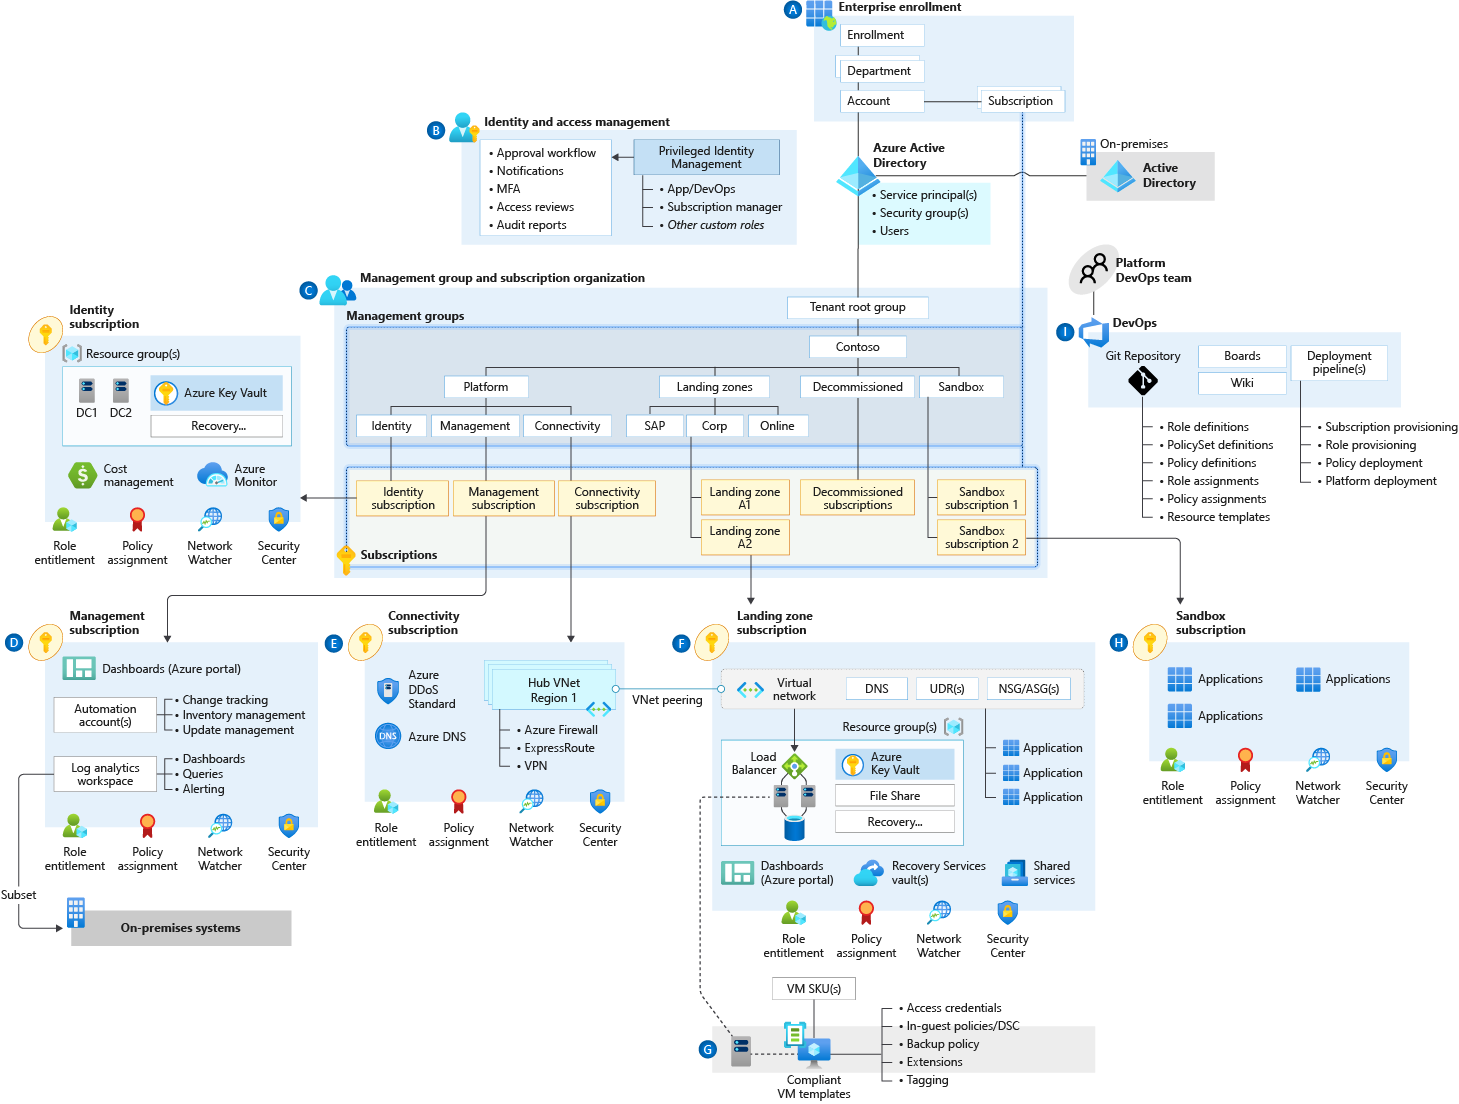
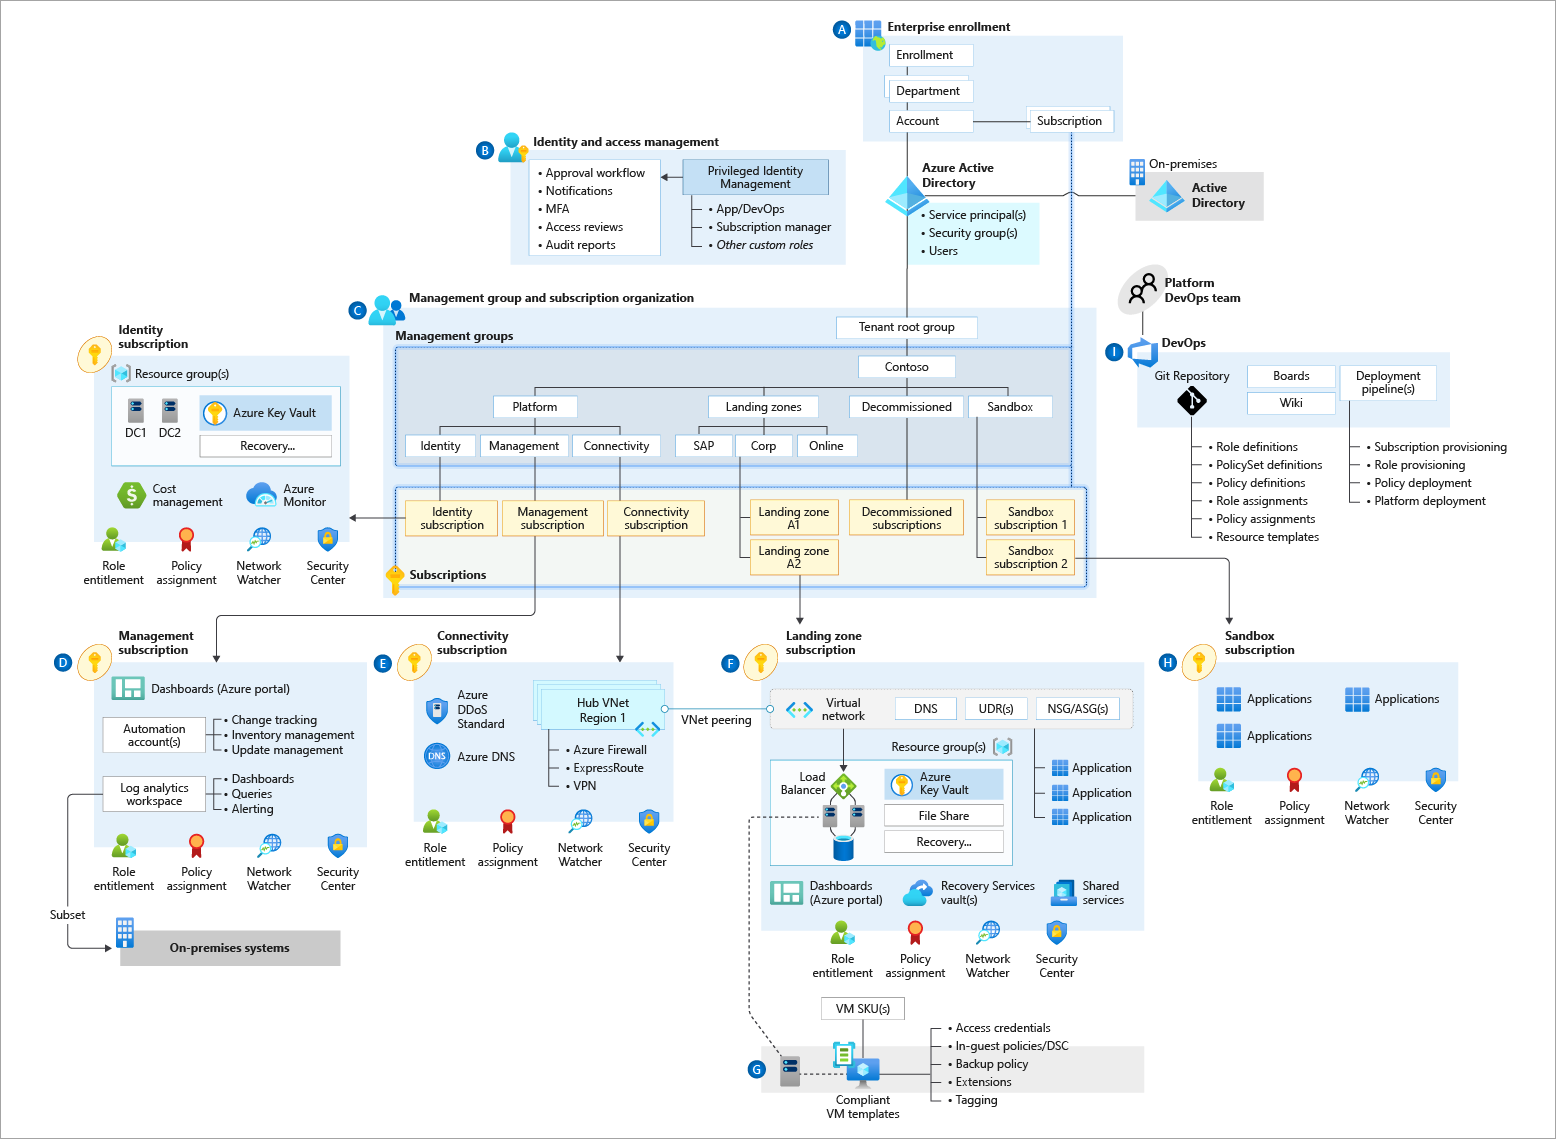
Update image references in ISV Landing Zones post and add new conceptual architecture diagram

Changed region(s): [[0.0, 0.0, 1.0, 1.0], [0.987, 0.9855, 1.0, 1.0]]

diff --git a/_posts/2024-02-01-assignment-isv-landingzones.md b/_posts/2024-02-01-assignment-isv-landingzones.md
@@ -4,7 +4,7 @@ title: Developing IaC for ISV Landing Zones
 author: Martin Swinkels
 categories: [Azure, DevOps, Portfolio]
 tags: azure azure-devops iac bicep powershell yaml
-image: https://msc365.eu/assets/img/posts-az-landing-zone-architecture-diagram-hub-spoke.svg
+image: https://msc365.eu/assets/img/posts-az-landingzones-conceptual-architecture.png
 comments: false
 ---
 
@@ -28,7 +28,7 @@ Looking forward to collaborating with the Microsoft Azure team for the next year
 
 ### Azure Landing zone architecture
 
-<a href="https://learn.microsoft.com/en-us/azure/cloud-adoption-framework/ready/landing-zone/" target="_blanc"><img alt="lz preview" src="https://msc365.eu/assets/img/posts-az-landing-zone-architecture-diagram-hub-spoke.svg" width="1024"/></a>
+<a href="https://learn.microsoft.com/en-us/azure/cloud-adoption-framework/ready/landing-zone/" target="_blanc"><img alt="lz preview" src="https://msc365.eu/assets/img/posts-az-landingzones-conceptual-architecture.png" width="1024"/></a>
 
 <small>Figure 1: Azure landing zone conceptual architecture</small>
 
